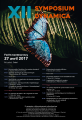
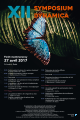
photo update

diff --git a/index.html b/index.html
@@ -113,7 +113,7 @@
       </figure>
       <!-- Les figures -->
       <figure class="photo" itemprop="associatedMedia"itemscope itemtype="http://schema.org/ImageObject">
-         <a href="./images/sympo/Butterfly_13x19_portrait.png" itemprop="contentUrl" data-size="821x1200">
+         <a href="./images/sympo/Butterfly_13x19_portrait.png" itemprop="contentUrl" data-size="820x1231">
           <img src="./images/sympo/Butterfly_13x19_portraitTHUMB.png" itemprop="thumbnail" alt="Image description" />
         </a>
           <figcaption itemprop="caption description">One of many using a photo. Butterfly effect.</figcaption>
